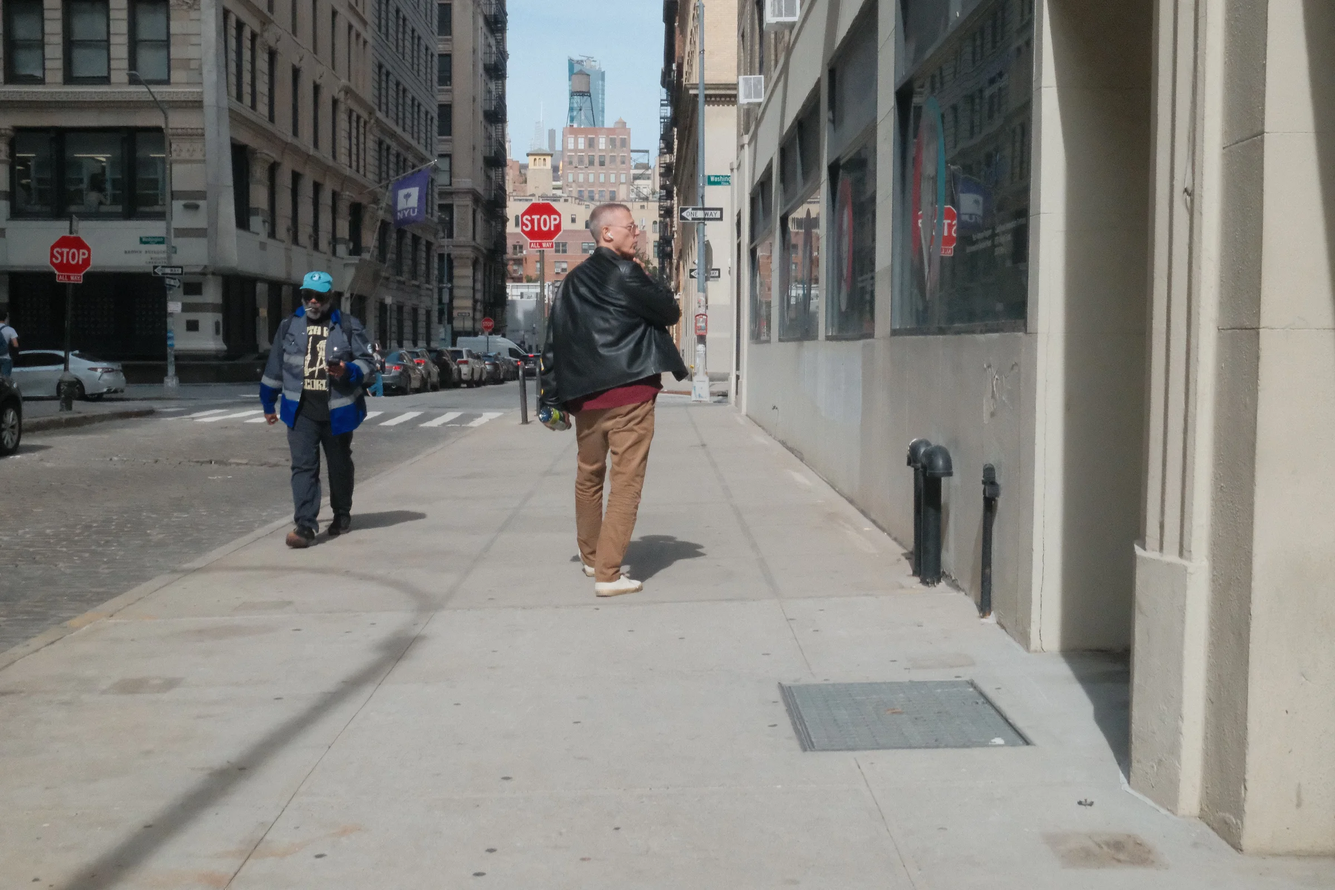
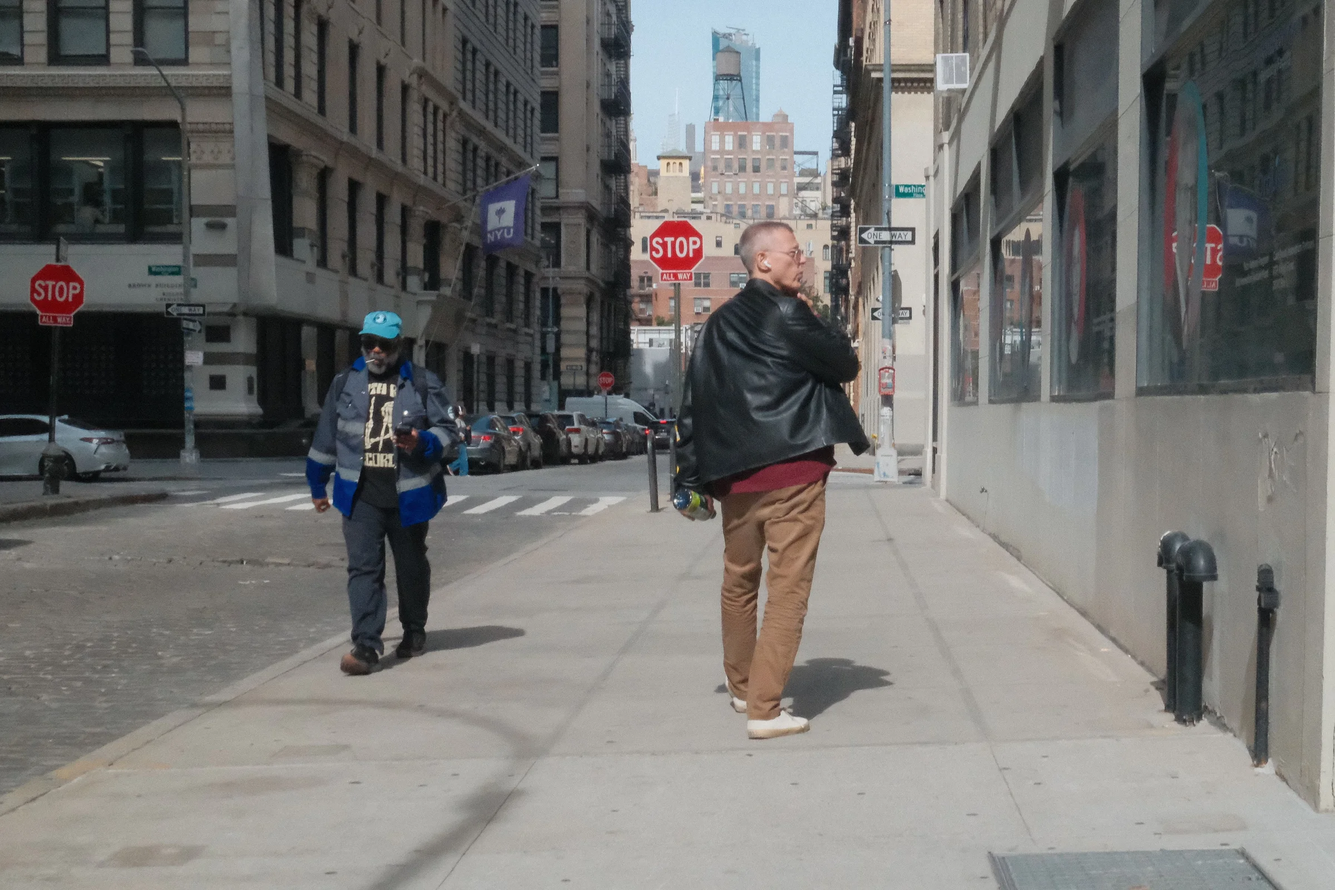
Use hand-cropped dscf1421
Swaps in the edited export from the drive. The editor stripped Fuji's
MakerNote, so Classic Chrome is pinned via the notes override.

Claude-Session: https://claude.ai/code/session_018JJdYdwt8PK3ZvLEciL1vE

diff --git a/lib/photos/notes.ts b/lib/photos/notes.ts
@@ -16,7 +16,7 @@ export const notes: Record<string, PhotoNote> = {
   dscf0454: { caption: 'afternoon sun across the dial' },
   dscf0702: { caption: 'out through the revolving door' },
   'iso12800-3': { caption: 'lights down at Ashe', place: 'Arthur Ashe, Queens' },
-  dscf1421: { caption: 'two ways down the block', place: 'Greenwich Village' },
+  dscf1421: { caption: 'two ways down the block', place: 'Greenwich Village', exif: { film: 'Classic Chrome' } },
   dscf1428: { caption: 'crossing, under the pines' },
   dscf0714: { caption: 'umbrellas at the plaza, golden hour', place: 'Rockefeller Center' },
 };
